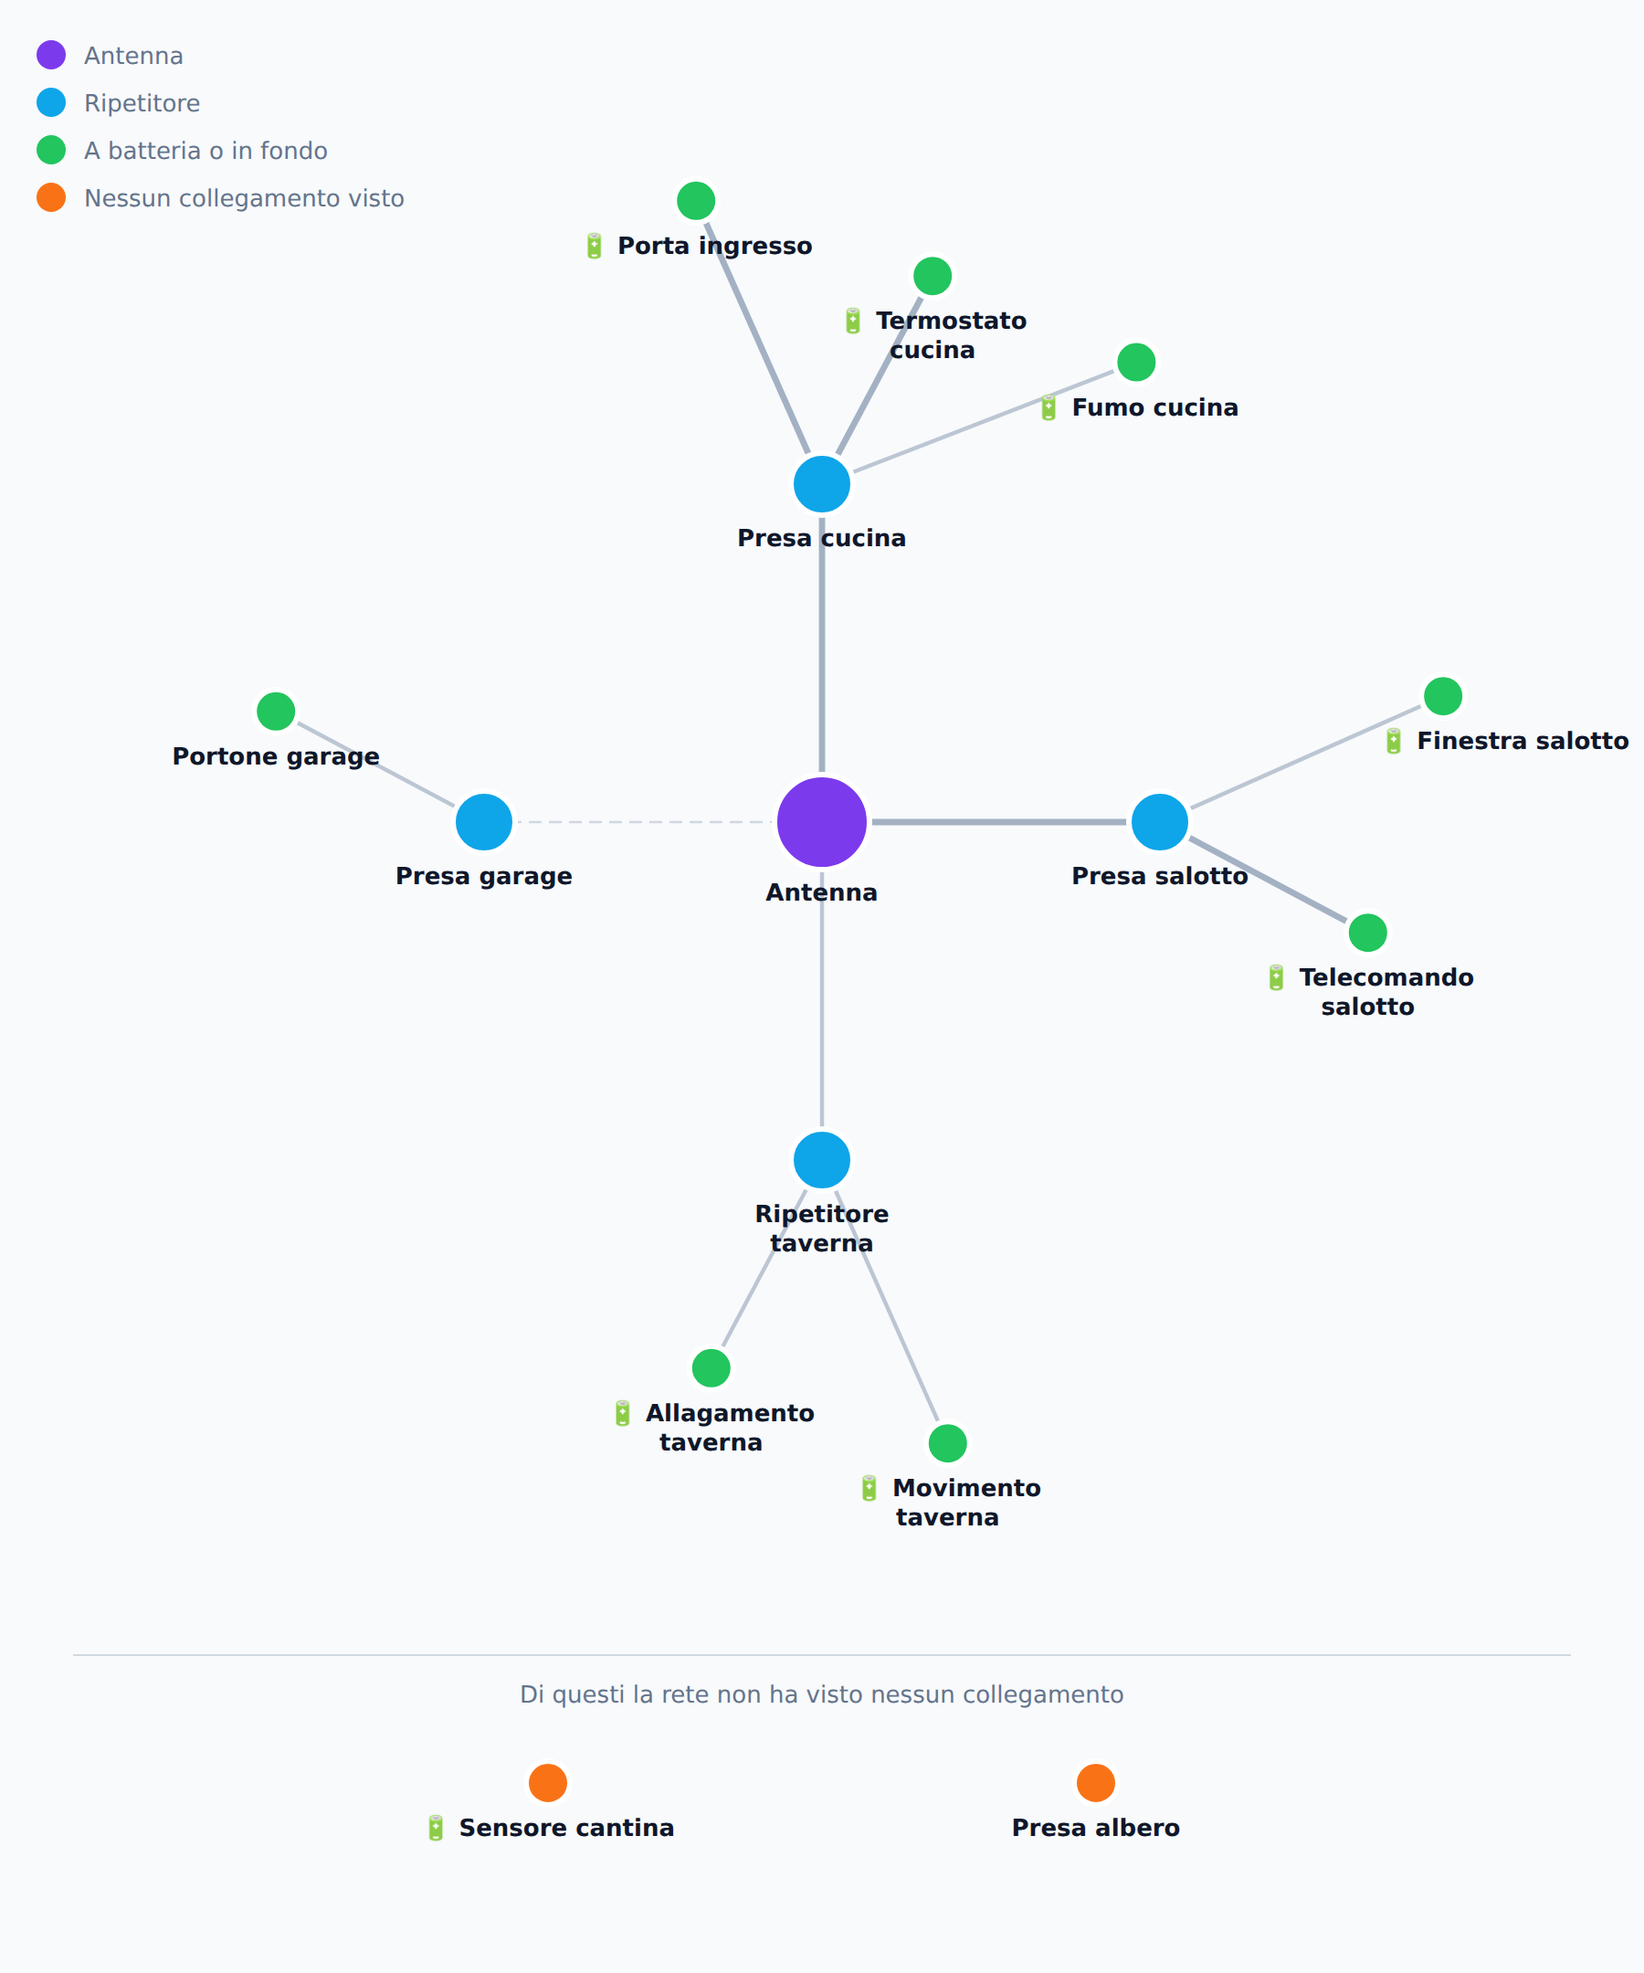
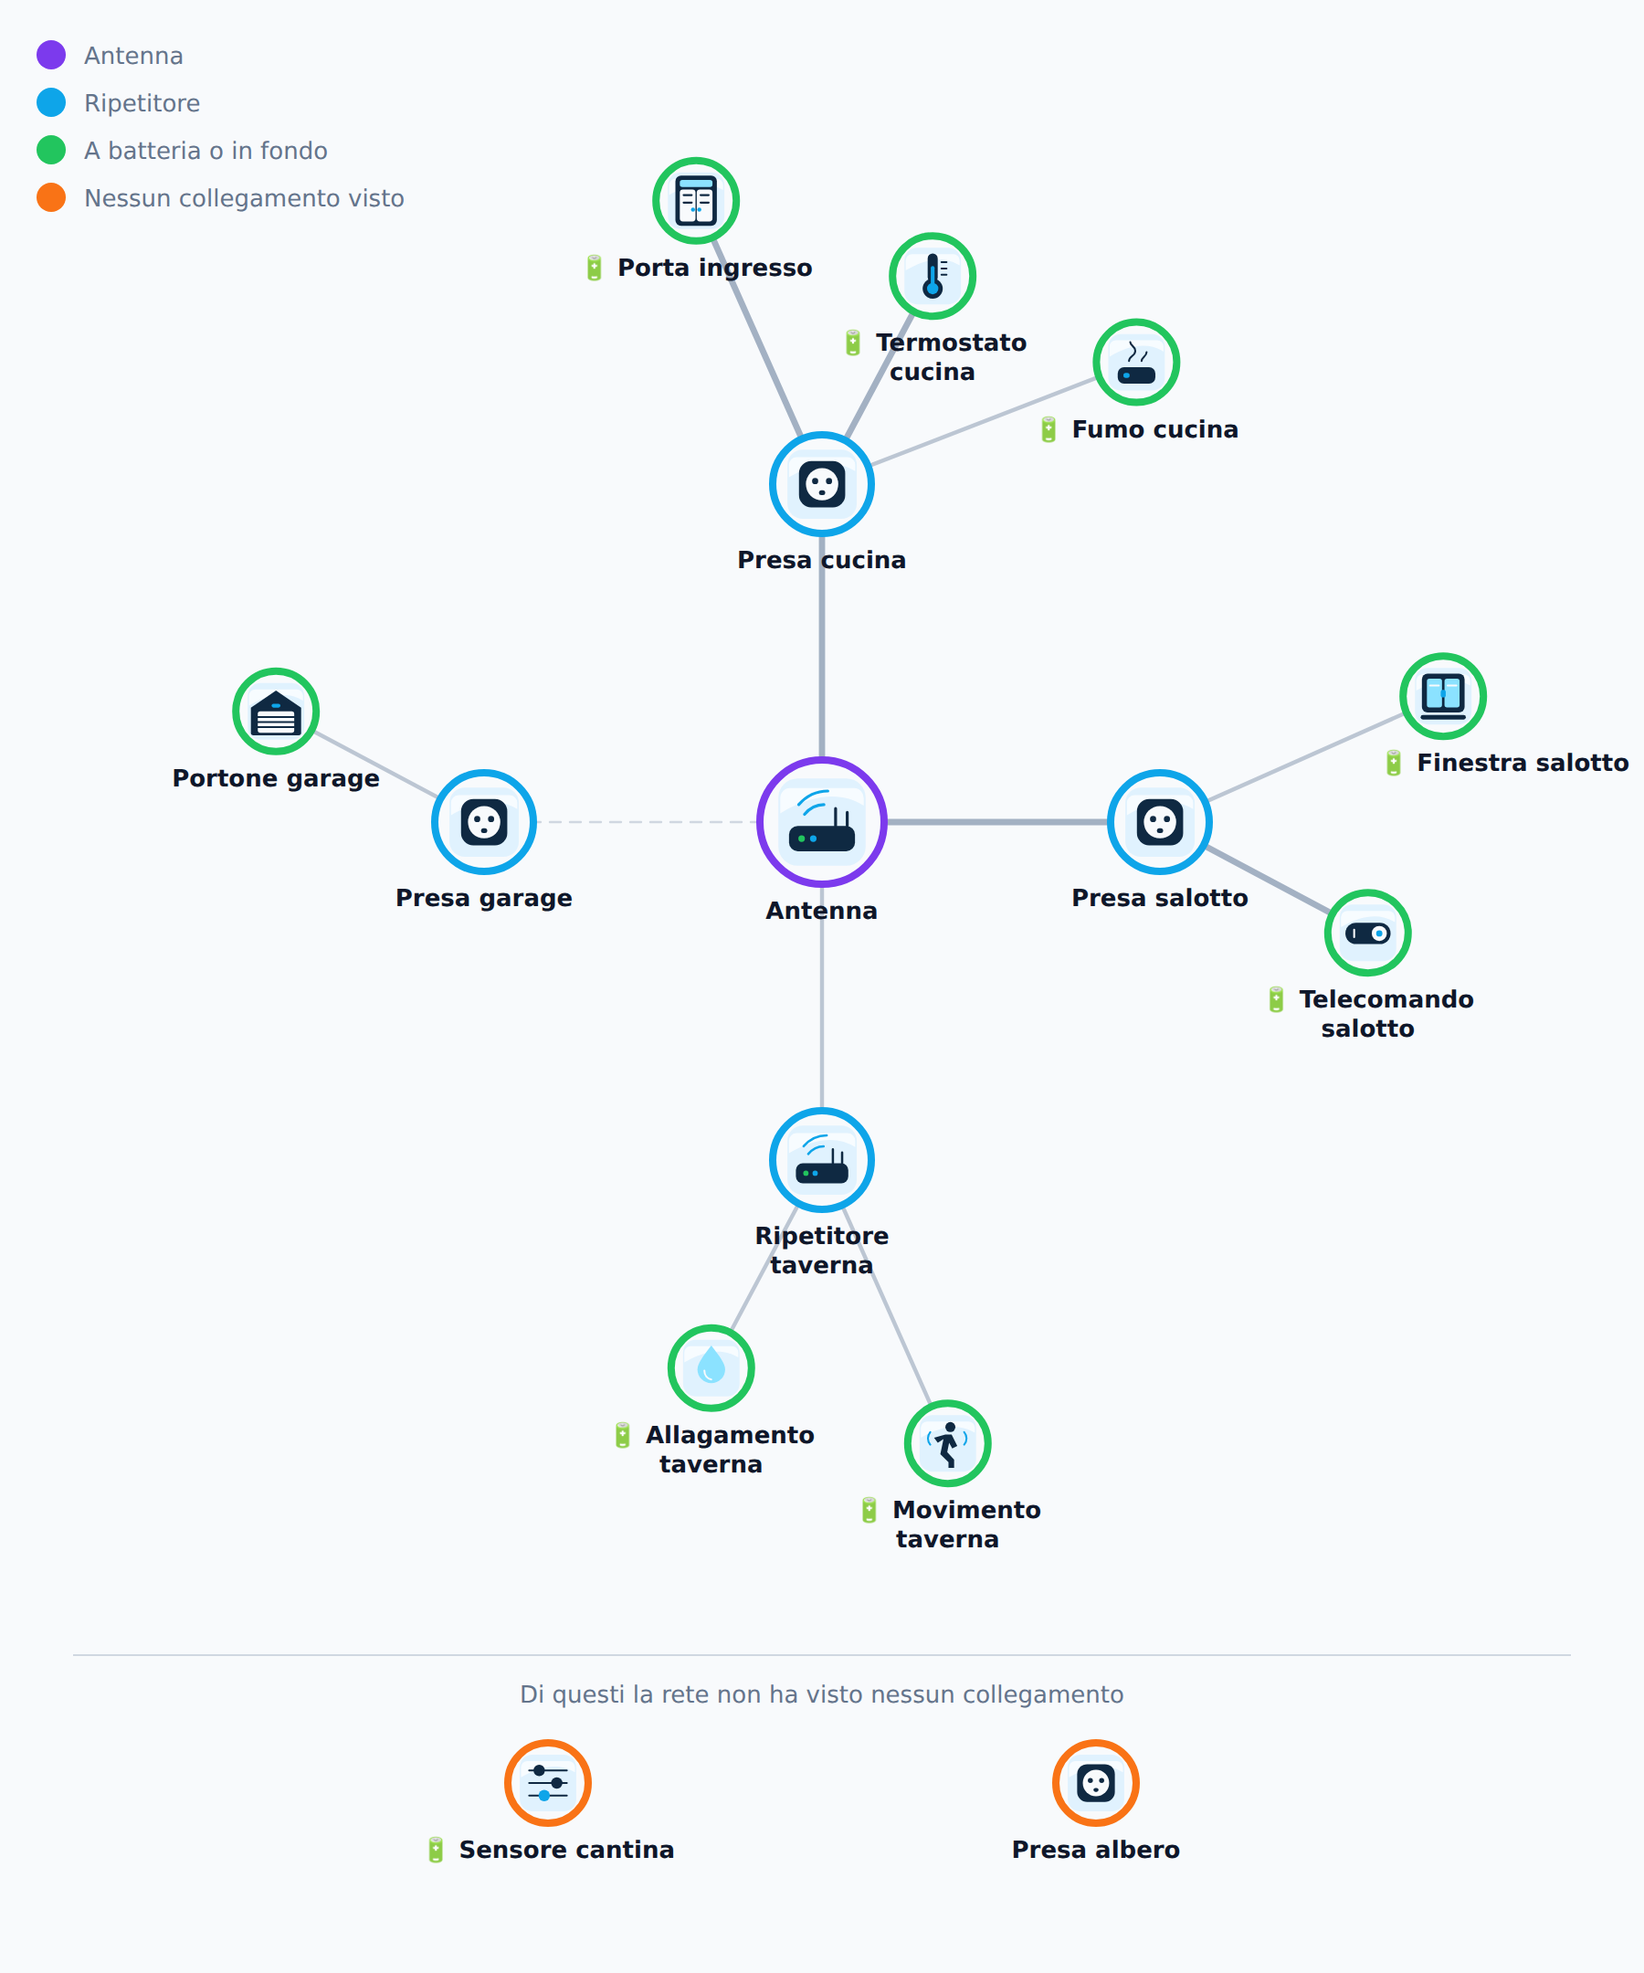
La mappa Zigbee coi disegni veri dei dispositivi
«La mappa deve essere fatta con icona dispositivi reali.»

I disegni non si inventano: sono i centoventiquattro del catalogo della
plancia, gli stessi che si vedono sulle tessere e nelle schede. Una presa deve
essere la stessa presa dappertutto, se no in una casa ci sono due lingue.

Due cose su ogni nodo, e non e' un doppione: il **disegno** dice che cos'e'
quell'apparecchio, l'**anello** che mestiere fa nella rete. Sono due domande
diverse — «cos'e'» e «regge qualcosa?» — e chi apre la mappa le fa tutte e due.

Il catalogo consegna il disegno dentro uno `<span>`, che dentro un SVG non ci
puo' stare: si tiene l'`<svg>` di dentro, annidato, che e' SVG valido e
`flutter_svg` disegna — `foreignObject` sarebbe stato un buco bianco sul
telefono. Il nome del disegno si riporta sull'`<svg>`, se no la figura non sa
piu' dire cosa ha disegnato.

Quale disegno tocca a chi si sceglie dal nome, in due lingue. E' imperfetto e
sta scritto che lo e': «Fumo cucina» becca il rilevatore, «Coso 3» no e prende
il neutro del suo mestiere — un'icona sbagliata e' peggio di una generica,
perche' la prima la si crede. La strada giusta sta segnata nel codice: le
classi che Home Assistant da' alle entita', che sono un fatto e non una parola
scelta, e i registri il ponte adesso ce li ha in mano.

Due sbagli veri, visti rendendo la mappa e non leggendo il codice, e adesso
fissati da una prova ciascuno:

  - «Presa garage» prendeva il basculante: la stanza vinceva sull'oggetto. Le
[…]

diff --git a/ponte/src/mappa-zigbee.js b/ponte/src/mappa-zigbee.js
@@ -40,6 +40,7 @@
  * l'ultimo posto dove ci si puo' permettere di indovinare.
  */
 
+import { disegnoDelCatalogo } from "../plancia/src/core/catalogo-disegni.js";
 import { COORDINATORE, ROUTER } from "./zigbee.js";
 
 /* La tela. Novecento di larghezza perche' su un telefono si scala a larghezza
@@ -150,6 +151,106 @@ const VESTI = {
   },
 };
 
+/* ── Che cosa e', quel pallino ────────────────────────────────────────────
+ *
+ * «La mappa deve essere fatta con icona dispositivi reali.»
+ *
+ * I disegni ci sono gia': sono i centoventiquattro del catalogo della plancia,
+ * quelli che si vedono sulle tessere e nelle schede. Usare quelli e non
+ * disegnarne altri non e' pigrizia — e' che una presa deve essere la stessa
+ * presa dappertutto, se no in una casa ci sono due lingue.
+ *
+ * ── Come si sceglie quale ────────────────────────────────────────────────
+ *
+ * Dal nome che gli ha messo chi abita, e in due lingue. E' un modo imperfetto
+ * e si sa: «Fumo cucina» becca il rilevatore di fumo, «Coso 3» no.
+ *
+ * E' pero' quello che si puo' fare **adesso**, perche' e' l'unica cosa che le
+ * due reti dicono tutte e due allo stesso modo. La strada giusta e' un'altra e
+ * sta segnata: le classi che Home Assistant da' alle entita' —
+ * `device_class: smoke`, `device_class: door` — che sono un fatto e non una
+ * parola scelta. Il ponte quei registri adesso li ha in mano (`registri.js`),
+ * quindi e' un lavoro che si fa; questa riga esiste perche' una mappa a
+ * pallini colorati non aspetti quel lavoro.
+ *
+ * Chi non si riconosce non prende un disegno a caso: prende quello neutro del
+ * suo mestiere. Un'icona sbagliata e' peggio di un'icona generica — la prima
+ * la si crede.
+ */
+const DAL_NOME = [
+  /* L'ordine conta, e conta due volte.
+   *
+   * Prima l'OGGETTO, poi il POSTO. «Presa garage» e' una presa che sta in
+   * garage, non una porta di garage — e con le stanze davanti si prendeva il
+   * basculante. Visto rendendo la mappa: un'icona sbagliata e' peggio di
+   * un'icona generica, perche' la prima la si crede.
+   *
+   * E niente confine di parola in coda: i nostri sono **prefissi**, e
+   * «termostat» seguito da una «o» non e' un confine. Con il `\b` finale
+   * «Termostato cucina» e «Finestra salotto» restavano senza disegno — un'ora
+   * di lavoro che non si vedeva. */
+  [/\b(pres[ae]|plug|socket|spin[ae]|ciabatt)/, "socket"],
+  [/\b(luc[ei]|lamp|light|faretto|strisci|led)/, "lights"],
+  [/\b(fumo|smoke|co2|gas|monossid)/, "smoke"],
+  [/\b(movimento|motion|presenz|presence|pir|radar|occupanc)/, "motion"],
+  [/\b(allagament|acqua|water|perdit|leak|flood|umidit)/, "water"],
+  [/\b(termostat|thermostat|temperatur|clima|termo)/, "thermometer"],
+  [/\b(radiator|calorifer|valvol|trv)/, "radiator"],
+  [/\b(serratur|lock|chiave)/, "lock"],
+  [/\b(telecomand|remote|pulsant|button|interrutt|switch|scena)/, "toggle"],
+  [/\b(campanell|bell|suoneri|doorbell)/, "bell"],
+  [/\b(telecamer|camera|videocamer)/, "camera"],
+  [/\b(altoparlant|speaker|cass[ae])/, "speaker"],
+  [/\b(ripetitor|repeater|extender|router)/, "router"],
+  [/\b(pomp[ae]|pump)/, "pump"],
+  [/\b(irrigazion|irrigation)/, "irrigation"],
+  [/\b(caminett|stuf[ae]|fireplace)/, "fireplace"],
+  [/\b(vibrazion|vibration|urto)/, "warning"],
+  [/\b(tapparell|persian|serrand|shutter|tend[ae]|curtain)/, "shutters"],
+  [/\b(finestr|window|velux|lucernar)/, "window"],
+  /* Il basculante: o si chiama cosi', o e' una porta che sta in garage. Il
+   * solo «garage» non basta — vedi sopra. */
+  [
+    /\b(basculant)|\b(port[ae]|porton|serrand).*garage|garage.*\b(port[ae]|porton|basculant)/,
+    "garage-door",
+  ],
+  [/\b(cancell|gate)/, "gate"],
+  [/\b(port[ae]|porton|front.?door|door|ingress)/, "front-door"],
+];
+
+/** Il disegno di un apparecchio: dal nome, e se non si sa dal suo mestiere. */
+export function ilDisegnoDi(nodo = {}) {
+  const scritto = pulito(nodo?.nome).toLowerCase();
+  for (const [come, disegno] of DAL_NOME) if (come.test(scritto)) return disegno;
+  /* Niente si riconosce: il neutro del mestiere. L'antenna e' l'apparecchio
+   * che tiene la rete, un ripetitore a corrente e' quasi sempre una presa, e
+   * di un terminale sconosciuto non si puo' dire altro che «e' una cosa che si
+   * regola» — che e' vero di tutti e non e' falso di nessuno. */
+  if (nodo?.tipo === COORDINATORE) return "router";
+  if (nodo?.tipo === ROUTER) return "socket";
+  return "sliders";
+}
+
+/* Il disegno pronto da mettere nella mappa.
+ *
+ * Il catalogo lo consegna dentro uno `<span>`, che dentro un SVG non ci puo'
+ * stare: si tiene l'`<svg>` di dentro e gli si dice dove andare. Un `<svg>`
+ * dentro un altro `<svg>` e' SVG valido, e `flutter_svg` lo disegna — a
+ * differenza di `foreignObject`, che avrebbe voluto dire un buco bianco sul
+ * telefono. */
+function ilDisegnoPosato(nodo, lato) {
+  const quale = ilDisegnoDi(nodo);
+  const markup = disegnoDelCatalogo(quale, lato);
+  const dentro = markup.replace(/^<span[^>]*>/, "").replace(/<\/span>$/, "");
+  if (!dentro.startsWith("<svg")) return "";
+  const x = (nodo.x - lato / 2).toFixed(1);
+  const y = (nodo.y - lato / 2).toFixed(1);
+  /* Il nome del disegno si riporta sull'`<svg>`: sullo `<span>` che si butta
+   * c'era, e senza la figura non sa piu' dire cosa ha disegnato — ne' a chi la
+   * legge, ne' a una prova. */
+  return dentro.replace("<svg ", `<svg data-dm-art="${quale}" x="${x}" y="${y}" `);
+}
+
 /** Il colore di un nodo, dal suo mestiere. */
 function tinta(nodo, veste) {
   if (nodo.solo) return veste.solo;
@@ -158,11 +259,15 @@ function tinta(nodo, veste) {
   return veste.terminale;
 }
 
-/** Quanto e' grosso un pallino: l'antenna si vede da lontano. */
+/* Quanto e' grosso un apparecchio sulla mappa: l'antenna si vede da lontano.
+ *
+ * E' il raggio dell'anello; il disegno ci sta dentro. I numeri sono cresciuti
+ * quando i pallini sono diventati disegni: dodici pixel bastavano a un
+ * pallino, a una presa disegnata no — si vedeva una macchia. */
 function quantoGrosso(nodo) {
-  if (nodo.tipo === COORDINATORE) return 26;
-  if (nodo.tipo === ROUTER) return 17;
-  return 12;
+  if (nodo.tipo === COORDINATORE) return 34;
+  if (nodo.tipo === ROUTER) return 27;
+  return 22;
 }
 
 /* ── I fili ────────────────────────────────────────────────────────────── */
@@ -340,11 +445,16 @@ function ilNodo(nodo, veste) {
   const scritte = righe
     .map(
       (riga, quale) =>
-        `<text x="${doveScrive}" y="${(nodo.y + raggio + 17 + quale * 16).toFixed(1)}" text-anchor="${ancora}" font-size="13" font-weight="700" fill="${veste.scritta}">${quale === 0 ? segno : ""}${esc(riga)}</text>`,
+        `<text x="${doveScrive}" y="${(nodo.y + raggio + 19 + quale * 16).toFixed(1)}" text-anchor="${ancora}" font-size="13" font-weight="700" fill="${veste.scritta}">${quale === 0 ? segno : ""}${esc(riga)}</text>`,
     )
     .join("");
+  /* Due cose sullo stesso pallino, e non e' un doppione: il **disegno** dice
+   * che cos'e' quell'apparecchio, l'**anello** che mestiere fa nella rete.
+   * Sono due domande diverse — «cos'e'» e «regge qualcosa?» — e chi apre la
+   * mappa le fa tutte e due. */
   return `<g>
-      <circle cx="${nodo.x.toFixed(1)}" cy="${nodo.y.toFixed(1)}" r="${raggio}" fill="${colore}" stroke="${veste.bordo}" stroke-width="3"/>
+      <circle cx="${nodo.x.toFixed(1)}" cy="${nodo.y.toFixed(1)}" r="${raggio}" fill="${veste.fondo}" stroke="${colore}" stroke-width="4"/>
+      ${ilDisegnoPosato(nodo, raggio * 1.5)}
       ${scritte}
     </g>`;
 }

diff --git a/ponte/test/l-elenco-della-rete-zigbee.test.js b/ponte/test/l-elenco-della-rete-zigbee.test.js
@@ -421,3 +421,94 @@ test("con «rifai» il giro parte, e poi si rilegge", async () => {
   assert.ok(casa.detto.some((uno) => uno.type === "zha/topology/update"));
   assert.ok(casa.detto.some((uno) => uno.type === "zha/devices"));
 });
+
+/* ── I disegni veri ───────────────────────────────────────────────────────
+ *
+ * «La mappa deve essere fatta con icona dispositivi reali.»
+ *
+ * I disegni non si inventano: sono i centoventiquattro del catalogo della
+ * plancia, quelli che si vedono sulle tessere e nelle schede. Una presa deve
+ * essere la stessa presa dappertutto, se no in una casa ci sono due lingue.
+ *
+ * Quale disegno tocca a chi si sceglie dal nome, che è imperfetto e si sa —
+ * ma è l'unica cosa che le due reti dicono tutte e due allo stesso modo. I due
+ * casi qui sotto sono sbagli veri, visti rendendo la mappa e non leggendo il
+ * codice: sono il motivo per cui queste prove esistono.
+ */
+
+import { ilDisegnoDi } from "../src/mappa-zigbee.js";
+
+test("il nome dice l'oggetto, e la stanza non glielo ruba", () => {
+  /* «Presa garage» è una presa che sta in garage, non una porta di garage.
+   * Con le stanze davanti nell'elenco si prendeva il basculante — e un'icona
+   * sbagliata è peggio di un'icona generica, perché la prima la si crede. */
+  assert.equal(ilDisegnoDi({ nome: "Presa garage", tipo: TERMINALE }), "socket");
+  assert.equal(ilDisegnoDi({ nome: "Portone garage", tipo: TERMINALE }), "garage-door");
+  assert.equal(ilDisegnoDi({ nome: "Luce cantina", tipo: TERMINALE }), "lights");
+});
+
+test("i nostri sono prefissi: «termostat» aggancia «Termostato»", () => {
+  /* Col confine di parola anche in coda, «Termostato cucina» e «Finestra
+   * salotto» restavano senza disegno: la regola c'era e non scattava mai. */
+  assert.equal(ilDisegnoDi({ nome: "Termostato cucina", tipo: TERMINALE }), "thermometer");
+  assert.equal(ilDisegnoDi({ nome: "Finestra salotto", tipo: TERMINALE }), "window");
+  assert.equal(ilDisegnoDi({ nome: "Ripetitore taverna", tipo: ROUTER }), "router");
+  assert.equal(ilDisegnoDi({ nome: "Telecomando salotto", tipo: TERMINALE }), "toggle");
+});
+
+test("chi non si riconosce prende il neutro del suo mestiere, non uno a caso", () => {
+  assert.equal(ilDisegnoDi({ nome: "Coso 3", tipo: TERMINALE }), "sliders");
+  assert.equal(ilDisegnoDi({ nome: "Coso 4", tipo: ROUTER }), "socket");
+  assert.equal(ilDisegnoDi({ nome: "Coso 5", tipo: COORDINATORE }), "router");
+});
+
+test("ogni disegno che nominiamo esiste davvero nel catalogo", async () => {
+  /* Un nome sbagliato qui non si vedrebbe come errore: uscirebbe un pallino
+   * vuoto, e nessuno saprebbe perché. */
+  const { chiaviDisegnate } = await import("../plancia/src/core/catalogo-disegni.js");
+  const cE = new Set(chiaviDisegnate());
+  const nomi = [
+    "Presa",
+    "Luce",
+    "Fumo",
+    "Movimento",
+    "Allagamento",
+    "Termostato",
+    "Radiatore",
+    "Serratura",
+    "Telecomando",
+    "Campanello",
+    "Telecamera",
+    "Altoparlante",
+    "Ripetitore",
+    "Pompa",
+    "Irrigazione",
+    "Caminetto",
+    "Vibrazione",
+    "Tapparella",
+    "Finestra",
+    "Portone garage",
+    "Cancello",
+    "Porta",
+    "Coso",
+  ];
+  for (const nome of nomi)
+    for (const tipo of [COORDINATORE, ROUTER, TERMINALE]) {
+      const disegno = ilDisegnoDi({ nome, tipo });
+      assert.ok(cE.has(disegno), `«${nome}» chiede «${disegno}», che nel catalogo non c'è`);
+    }
+});
+
+test("il disegno finisce dentro la mappa, e non in uno «span» che l'SVG non sa", () => {
+  /* Il catalogo consegna il disegno dentro uno `<span>`: dentro un SVG non ci
+   * può stare, e `foreignObject` su `flutter_svg` sarebbe un buco bianco sul
+   * telefono. Si tiene l'`<svg>` di dentro, che annidato è SVG valido. */
+  const svg = laMappaDisegnata([
+    { id: "c", nome: "Antenna", tipo: COORDINATORE, vicini: [{ id: "p", qualita: 200 }] },
+    { id: "p", nome: "Presa cucina", tipo: ROUTER, vicini: [{ id: "c", qualita: 200 }] },
+  ]);
+  assert.ok(!svg.includes("<span"), "nessuno span dentro la figura");
+  assert.ok(!svg.includes("foreignObject"));
+  assert.match(svg, /data-dm-art="socket"/, "la presa ha il disegno della presa");
+  assert.match(svg, /data-dm-art="router"/, "e l'antenna quello dell'antenna");
+});

diff --git a/scatti-di-stanotte/LEGGIMI.md b/scatti-di-stanotte/LEGGIMI.md
@@ -50,3 +50,14 @@ stanno in una fascia a parte con scritto perché.
   volta sola, con la misura **peggiore** dei due versi, perché un filo vale
   quanto il suo verso più debole
 - 🔋 accanto al nome: va a batteria
+
+I pallini sono **disegni veri**: i 124 del catalogo della plancia, gli stessi
+delle tessere e delle schede. Il disegno dice *che cosa è* quell'apparecchio,
+l'anello colorato *che mestiere fa* nella rete — due domande diverse, e chi
+apre la mappa le fa tutte e due.
+
+Quale disegno tocca a chi si sceglie dal nome, che è imperfetto e si sa:
+«Fumo cucina» becca il rilevatore, «Coso 3» no e prende il neutro del suo
+mestiere. La strada giusta è un'altra e sta segnata nel codice — le classi che
+Home Assistant dà alle entità (`device_class: smoke`), che sono un fatto e non
+una parola scelta.
